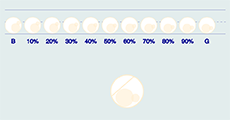
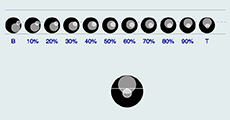
Black and white with thin lines

diff --git a/draw_letters.js b/draw_letters.js
@@ -1,5 +1,5 @@
-const colorFront  = "#ffffff";
-const colorStroke = "#ffeed1";
+const colorFront  = "#000000";
+const colorStroke = "#ffffff";
 
 /*
  * Draw the letter given the letterData
@@ -13,7 +13,7 @@ function drawLetter(letterData) {
   // color/stroke setup
   fill(colorFront);
   stroke(colorStroke);
-  strokeWeight(4);
+  strokeWeight(2);
 
   let posx1 = letterData["posX1"];
   let posx2 = letterData["posX2"];
@@ -26,11 +26,10 @@ function drawLetter(letterData) {
 
   // draw two circles
   ellipse(50, 130, 136, 136);
-  noStroke();
-  
-  fill(255, 238, 209, 150);
+  stroke(colorStroke);
+  fill(255, 255, 255, 150);
   ellipse(posx1, posy1, 36, 36);
-  
+  noStroke();
 
   ellipse(posx2, posy2, 76, 76);
   stroke(colorStroke);

diff --git a/README.md b/README.md
@@ -1,6 +1,6 @@
 ## PS2 MDDN 242 2018
 
-I wanted to play around with the colour, stroke and transparency. For this design I changed the colours, made them white and a cream colour and I returned the stroke to the original size (4). The similar colours do make it difficult to see the different elements and the transparency. I think I will keep the colours very different.
+I wanted to play around with the colour, stroke and transparency. For this design I changed made it black and white. I like the simplicity of that colour scheme and I think it works well with transparency.  I made the stroke width smaller, I like it like this because it makes the letters look less crowed and more delicate. I only put a stroke around the smaller circle to make it stand out a little and to make the line match better with the rest of the letter.
 
 The eight parameters per letter are now:
 
